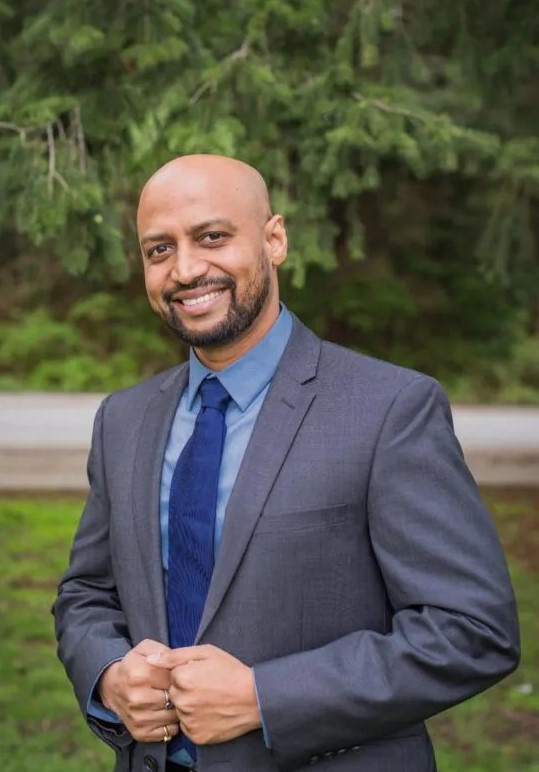
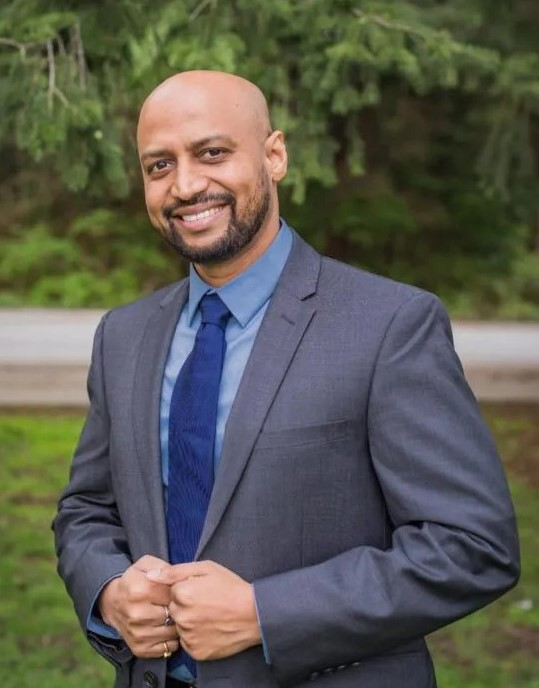
added images of the keynote

diff --git a/src/pages/AdvisoryCommitteePage.tsx b/src/pages/AdvisoryCommitteePage.tsx
@@ -24,18 +24,32 @@ export default function AdvisoryCommitteePage() {
               </h3>
             </div>
             <div className="w-full bg-[#ffbf00] bg-opacity-10 p-8 text-center flex-1">
-              <div className="grid md:grid-cols-2 gap-8 items-start justify-items-center">
-                <div className="flex flex-col items-center">
-                  <img src={sriramImg} alt="Dr. Sriram Ananthan" className="w-48 h-48 object-cover rounded-full mb-4 shadow-md border-4 border-white" />
+              <div className="grid md:grid-cols-2 gap-8 items-stretch justify-items-center">
+                <div className="flex flex-col items-center h-full">
+                  <div className="w-44 h-44 rounded-full mb-4 shadow-md border-4 border-white overflow-hidden shrink-0">
+                    <img src={sriramImg} alt="Dr. Sriram Ananthan" className="w-full h-full object-cover object-top scale-125 origin-top" />
+                  </div>
                   <h4 className="text-xl font-bold text-slate-900">Dr. Sriram Ananthan</h4>
-                  <p className="text-sm text-slate-700 font-medium">Associate Professor,</p>
-                  <p className="text-sm text-slate-700">Yorkville University, Canada.</p>
+                  <div className="flex flex-col items-center h-16 justify-start">
+                    <p className="text-sm text-slate-700 font-medium text-center">Associate Professor,</p>
+                    <p className="text-sm text-slate-700 text-center">Yorkville University, Canada.</p>
+                  </div>
+                  <p className="text-sm text-slate-600 mt-4 text-justify px-4">
+                    Sriram Ananthan is an academic leader, entrepreneur, coach, professor, and writer with a background in banking and business management. Holding a Ph.D. and MBA, he brings over 20 years of experience across academia and business. He has served as a professor at Yorkville University and Acsenda School of Management, contributing to student success, curriculum development, and AI-driven learning. He has authored and contributed to books and peer-reviewed journal articles published by reputed academic publishers, including IGI Global, Emerald, Springer, and Wiley. His interests include academic leadership, AI in education, curriculum innovation, philosophy, and mentoring young professionals, with a focus on bridging education and real-world industry practices.  
+                  </p>
                 </div>
-                <div className="flex flex-col items-center">
-                  <img src={anwarImg} alt="Dr. Anwar" className="w-48 h-48 object-cover object-top rounded-full mb-4 shadow-md border-4 border-white" />
+                <div className="flex flex-col items-center h-full">
+                  <div className="w-44 h-44 rounded-full mb-4 shadow-md border-4 border-white overflow-hidden shrink-0">
+                    <img src={anwarImg} alt="Dr. Anwar" className="w-full h-full object-cover object-top scale-125 origin-top" />
+                  </div>
                   <h4 className="text-xl font-bold text-slate-900">Dr. Anwar Basha H</h4>
-                  <p className="text-sm text-slate-700 font-medium">Senior Lecturer, Data Science and Information Technology</p>
-                  <p className="text-sm text-slate-700">INTI International University, Nilai, Malaysia </p>
+                  <div className="flex flex-col items-center h-16 justify-start">
+                    <p className="text-sm text-slate-700 font-medium text-center">Senior Lecturer, Data Science and Information Technology</p>
+                    <p className="text-sm text-slate-700 text-center">INTI International University, Nilai, Malaysia </p>
+                  </div>
+                  <p className="text-sm text-slate-600 mt-4 text-justify px-4">
+                    Dr. Anwar Basha H is a Senior Lecturer in the Faculty of Data Science and Information Technology at INTI International University, Nilai, Malaysia. He holds a Ph.D. in Computer Science and Engineering and has over 19 years of experience in teaching and the IT industry. He has published research articles in peer-reviewed international journals and presented papers at conferences in India and abroad. He has also served as a reviewer for reputed international publishers, including Springer, Elsevier, Wiley, and Taylor & Francis. His research interests include Multi-Cloud Storage, Cybersecurity, Quantum Cryptography, Edge Computing, and Big Data Analytics.
+                  </p>
                 </div>
               </div>
             </div>
